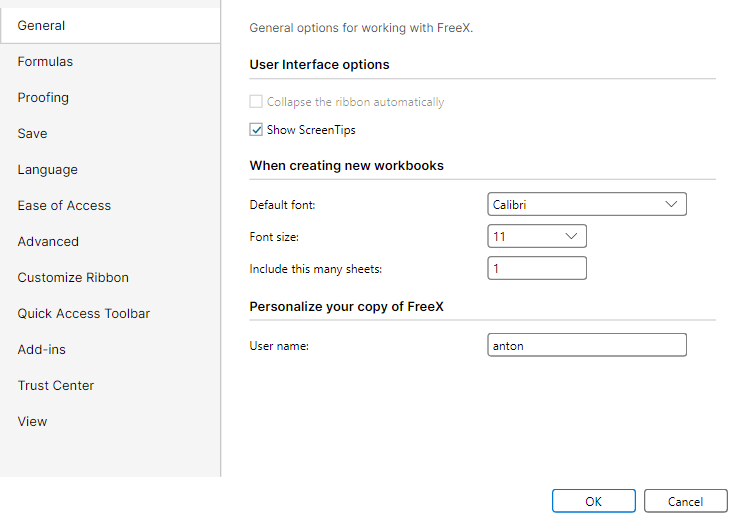
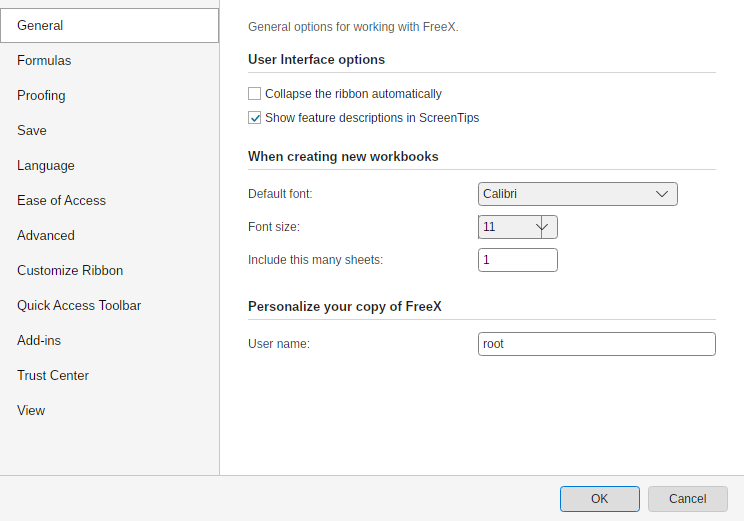
Align FreeX Avalonia Options General parity

diff --git a/src/FreeX.App.Avalonia/MainWindow.Options.cs b/src/FreeX.App.Avalonia/MainWindow.Options.cs
@@ -86,46 +86,61 @@ public sealed partial class MainWindow
         AvaloniaCompactDialogChrome.ApplyWindow(dialog, OptionsDialogChromeStyle);
 
         // ── General ─────────────────────────────────────────────────────────────
-        var fontBox = new ComboBox { MinWidth = 200, ItemsSource = OptionsDialogPlanner.FontNames };
+        var fontBox = new ComboBox { MinWidth = OptionsDialogPlanner.GeneralFontFieldWidth, ItemsSource = OptionsDialogPlanner.FontNames };
         fontBox.SelectedIndex = OptionsDialogPlanner.DefaultFontToIndex(current.DefaultFontName);
         ApplyOptionsComboBoxChrome(fontBox);
         AutomationProperties.SetAutomationId(fontBox, "OptionsDefaultFontComboBox");
 
-        var fontSizeBox = new ComboBox { MinWidth = 100, ItemsSource = OptionsDialogPlanner.FontSizes };
+        var fontSizeBox = new ComboBox { MinWidth = OptionsDialogPlanner.GeneralSmallFieldWidth, IsEditable = true, ItemsSource = OptionsDialogPlanner.FontSizes };
         fontSizeBox.SelectedItem = current.DefaultFontSize.ToString();
         ApplyOptionsComboBoxChrome(fontSizeBox);
+        // The editable Avalonia template reserves the arrow gutter in addition to the shared
+        // combo padding. Keep the WPF 80 px field while leaving the two-digit value fully visible.
+        fontSizeBox.Text = current.DefaultFontSize.ToString();
+        fontSizeBox.Padding = new Thickness(2, 0, 0, 0);
+        fontSizeBox.HorizontalContentAlignment = AvaloniaHorizontalAlignment.Left;
         AutomationProperties.SetAutomationId(fontSizeBox, "OptionsDefaultFontSizeComboBox");
 
-        var sheetCountBox = new TextBox { MinWidth = 100, Text = current.DefaultSheetCount.ToString() };
+        var sheetCountBox = new TextBox { MinWidth = OptionsDialogPlanner.GeneralSmallFieldWidth, Text = current.DefaultSheetCount.ToString() };
         ApplyOptionsTextBoxChrome(sheetCountBox);
         AutomationProperties.SetAutomationId(sheetCountBox, "OptionsDefaultSheetCountBox");
 
-        var userNameBox = new TextBox { MinWidth = 200, Text = current.UserName };
+        var userNameBox = new TextBox { Text = current.UserName };
         ApplyOptionsTextBoxChrome(userNameBox);
         AutomationProperties.SetAutomationId(userNameBox, "OptionsUserNameBox");
 
-        var screenTipsBox = new CheckBox { Content = UiText.Get("Options_ShowScreenTips"), IsChecked = current.ShowScreenTips };
+        var screenTipsBox = new CheckBox { Content = OptionsText("Options_ShowFeatureDescriptionsInScreenTips"), IsChecked = current.ShowScreenTips };
         ApplyOptionsCheckBoxChrome(screenTipsBox);
+        screenTipsBox.Height = OptionsDialogPlanner.GeneralCheckBoxHeight;
+        screenTipsBox.MinHeight = OptionsDialogPlanner.GeneralCheckBoxHeight;
+        screenTipsBox.MaxHeight = OptionsDialogPlanner.GeneralCheckBoxHeight;
+        screenTipsBox.Margin = new Thickness(0, 0, 0, 4);
         AutomationProperties.SetAutomationId(screenTipsBox, "OptionsShowScreenTipsCheckBox");
         var collapseRibbonBox = new CheckBox
         {
             Content = OptionsText("Options_CollapseTheRibbonAutomatically"),
-            IsEnabled = false,
+            IsChecked = current.CollapseRibbonAutomatically,
         };
         ApplyOptionsCheckBoxChrome(collapseRibbonBox);
+        collapseRibbonBox.Height = OptionsDialogPlanner.GeneralCheckBoxHeight;
+        collapseRibbonBox.MinHeight = OptionsDialogPlanner.GeneralCheckBoxHeight;
+        collapseRibbonBox.MaxHeight = OptionsDialogPlanner.GeneralCheckBoxHeight;
+        collapseRibbonBox.Margin = new Thickness(0, 0, 0, 6);
         AutomationProperties.SetAutomationId(collapseRibbonBox, "OptionsCollapseRibbonAutomaticallyCheckBox");
 
         var generalPanel = OptionsCategoryPanel(
-            OptionsDescription(OptionsText("Options_GeneralOptionsForWorkingWithFreeX")),
-            OptionsSectionHeader(OptionsText("Options_UserInterfaceOptions")),
+            OptionsDescription(OptionsText("Options_GeneralOptionsForWorkingWithFreeX"), bottomMargin: OptionsDialogPlanner.GeneralDescriptionBottomMargin),
+            OptionsSectionHeader(OptionsText("Options_UserInterfaceOptions"), topMargin: 0, bottomMargin: OptionsDialogPlanner.GeneralSectionBottomMargin),
             collapseRibbonBox,
             screenTipsBox,
-            OptionsSectionHeader(OptionsText("Options_WhenCreatingNewWorkbooks")),
-            OptionsLabeled(OptionsText("Options_DefaultFont"), fontBox),
-            OptionsLabeled(OptionsText("Options_FontSize"), fontSizeBox, fieldWidth: 80),
-            OptionsLabeled(OptionsText("Options_IncludeThisManySheets"), sheetCountBox, fieldWidth: 80),
-            OptionsSectionHeader(OptionsText("Options_PersonalizeYourCopyOfFreeX")),
-            OptionsLabeled(OptionsText("Options_UserName"), userNameBox, stretchField: true));
+            OptionsSectionHeader(OptionsText("Options_WhenCreatingNewWorkbooks"), topMargin: OptionsDialogPlanner.GeneralSectionTopMargin, bottomMargin: OptionsDialogPlanner.GeneralSectionBottomMargin),
+            OptionsLabeled(OptionsText("Options_DefaultFont"), fontBox, labelWidth: OptionsDialogPlanner.GeneralLabelWidth, fieldWidth: OptionsDialogPlanner.GeneralFontFieldWidth, spacing: OptionsDialogPlanner.GeneralFieldSpacing, margin: new Thickness(0, 0, 0, OptionsDialogPlanner.GeneralFieldBottomMargin)),
+            OptionsLabeled(OptionsText("Options_FontSize"), fontSizeBox, labelWidth: OptionsDialogPlanner.GeneralLabelWidth, fieldWidth: OptionsDialogPlanner.GeneralSmallFieldWidth, spacing: OptionsDialogPlanner.GeneralFieldSpacing, margin: new Thickness(0, 0, 0, OptionsDialogPlanner.GeneralFieldBottomMargin)),
+            OptionsLabeled(OptionsText("Options_IncludeThisManySheets"), sheetCountBox, labelWidth: OptionsDialogPlanner.GeneralLabelWidth, fieldWidth: OptionsDialogPlanner.GeneralSmallFieldWidth, spacing: OptionsDialogPlanner.GeneralFieldSpacing, margin: new Thickness(0, 0, 0, OptionsDialogPlanner.GeneralFieldBottomMargin)),
+            OptionsSectionHeader(OptionsText("Options_PersonalizeYourCopyOfFreeX"), topMargin: OptionsDialogPlanner.GeneralSectionTopMargin, bottomMargin: OptionsDialogPlanner.GeneralSectionBottomMargin),
+            OptionsLabeled(OptionsText("Options_UserName"), userNameBox, labelWidth: OptionsDialogPlanner.GeneralLabelWidth, stretchField: true, spacing: OptionsDialogPlanner.GeneralFieldSpacing, margin: new Thickness(0, 0, 0, OptionsDialogPlanner.GeneralUserNameBottomMargin)));
+        generalPanel.MinWidth = OptionsDialogPlanner.GeneralContentWidth;
+        generalPanel.Spacing = 0;
 
         // ── Formulas ────────────────────────────────────────────────────────────
         // Calc mode and iterative-calculation settings are workbook-level state (Workbook.
@@ -888,9 +903,9 @@ public sealed partial class MainWindow
         var selectedCategoryIndex = 0;
         var categoryList = new StackPanel
         {
-            Width = OptionsDialogPlanner.CategoryColumnWidth,
             Background = Brush(245, 245, 245),
             Margin = new Thickness(0, OptionsDialogPlanner.CategoryTopMargin, 0, 0),
+            HorizontalAlignment = AvaloniaHorizontalAlignment.Stretch,
         };
         AutomationProperties.SetAutomationId(categoryList, "OptionsCategoryList");
         AutomationProperties.SetName(categoryList, UiText.Get("Options_OptionsCategories"));
@@ -1055,7 +1070,8 @@ public sealed partial class MainWindow
                          1 => AppOptionsObjectDisplay.Placeholders,
                          2 => AppOptionsObjectDisplay.Nothing,
                          _ => AppOptionsObjectDisplay.All,
-                     }))
+                     },
+                    collapseRibbonAutomatically: collapseRibbonBox.IsChecked == true))
             {
                 warningText.Text = inputError == OptionsDialogPlanner.OptionsInputError.InvalidFontSize
                     ? UiText.Get("Options_InvalidFontSizeMessage")
@@ -1135,7 +1151,7 @@ public sealed partial class MainWindow
 
         var body = new Grid
         {
-            ColumnDefinitions = new ColumnDefinitions("Auto,*"),
+            ColumnDefinitions = new ColumnDefinitions($"{OptionsDialogPlanner.CategoryColumnWidth},*"),
         };
         var categoryFrame = new Border
         {
@@ -1417,7 +1433,7 @@ public sealed partial class MainWindow
             TextWrapping = TextWrapping.Wrap,
         };
 
-    private static StackPanel OptionsLabeled(
+    private static Control OptionsLabeled(
         string label,
         Control field,
         double labelWidth = 230,
@@ -1430,6 +1446,27 @@ public sealed partial class MainWindow
             field.Width = fieldWidth.Value;
         if (stretchField)
             field.HorizontalAlignment = AvaloniaHorizontalAlignment.Stretch;
+
+        if (stretchField)
+        {
+            var grid = new Grid
+            {
+                ColumnDefinitions = new ColumnDefinitions($"{labelWidth},*"),
+                Margin = margin ?? new Thickness(0),
+            };
+            var labelControl = new TextBlock
+            {
+                Text = label,
+                VerticalAlignment = AvaloniaVerticalAlignment.Center,
+                FontSize = 12,
+                FontFamily = FormulaBarFontFamily,
+            };
+            Grid.SetColumn(labelControl, 0);
+            Grid.SetColumn(field, 1);
+            grid.Children.Add(labelControl);
+            grid.Children.Add(field);
+            return grid;
+        }
 
         return new StackPanel
         {

diff --git a/src/FreeX.App.Services/OptionsDialogPlanner.cs b/src/FreeX.App.Services/OptionsDialogPlanner.cs
@@ -49,6 +49,17 @@ public static class OptionsDialogPlanner
     public const double FooterButtonWidth = 80;
     public const double ButtonHeight = 26;
     public const double ControlHeight = 24;
+    public const double GeneralContentWidth = CaptureWidth - CategoryColumnWidth - (ContentPaddingHorizontal * 2);
+    public const double GeneralLabelWidth = 230;
+    public const double GeneralFontFieldWidth = 200;
+    public const double GeneralSmallFieldWidth = 80;
+    public const double GeneralFieldSpacing = 0;
+    public const double GeneralDescriptionBottomMargin = 18;
+    public const double GeneralSectionBottomMargin = 12;
+    public const double GeneralSectionTopMargin = 18;
+    public const double GeneralCheckBoxHeight = 18;
+    public const double GeneralFieldBottomMargin = 9;
+    public const double GeneralUserNameBottomMargin = 6;
     public const double ProofingContentWidth = CaptureWidth - CategoryColumnWidth - (ContentPaddingHorizontal * 2);
     public const double ProofingWordsListHeight = 108;
     public const double ProofingAddWordLabelWidth = 94;
@@ -96,7 +107,8 @@ public static class OptionsDialogPlanner
         bool ShowScreenTips,
         bool MoveSelectionAfterEnter,
         AppOptionsEnterDirection AfterEnterDirection,
-        AppOptionsObjectDisplay? ObjectsDisplay = null);
+        AppOptionsObjectDisplay? ObjectsDisplay = null,
+        bool? CollapseRibbonAutomatically = null);
 
     /// <summary>Font names offered in the Options dialog's default-font picker (parity with the WPF host).</summary>
     public static IReadOnlyList<string> FontNames { get; } =
@@ -157,7 +169,8 @@ public static class OptionsDialogPlanner
         AppOptionsEnterDirection afterEnterDirection,
         out OptionsDialogInput input,
         out OptionsInputError error,
-        AppOptionsObjectDisplay? objectsDisplay = null)
+        AppOptionsObjectDisplay? objectsDisplay = null,
+        bool? collapseRibbonAutomatically = null)
     {
         input = null!;
 
@@ -191,7 +204,8 @@ public static class OptionsDialogPlanner
             showScreenTips,
             moveSelectionAfterEnter,
             afterEnterDirection,
-            objectsDisplay);
+            objectsDisplay,
+            collapseRibbonAutomatically);
         return true;
     }
 
@@ -229,7 +243,7 @@ public static class OptionsDialogPlanner
             ObjectsDisplay = input.ObjectsDisplay ?? existing.ObjectsDisplay,
 
             // Carried over verbatim — not surfaced by this dialog.
-            CollapseRibbonAutomatically = existing.CollapseRibbonAutomatically,
+            CollapseRibbonAutomatically = input.CollapseRibbonAutomatically ?? existing.CollapseRibbonAutomatically,
             AppLanguage = existing.AppLanguage,
             SpellCheckCustomDictionaryWords = existing.SpellCheckCustomDictionaryWords,
             FormulaBarExpanded = existing.FormulaBarExpanded,

diff --git a/tests/FreeX.App.Services.Tests/OptionsDialogPlannerTests.cs b/tests/FreeX.App.Services.Tests/OptionsDialogPlannerTests.cs
@@ -12,6 +12,12 @@ public sealed class OptionsDialogPlannerTests
         OptionsDialogPlanner.ContentPaddingVertical.Should().Be(20);
         OptionsDialogPlanner.FooterHeight.Should().Be(46);
         OptionsDialogPlanner.FooterButtonWidth.Should().Be(80);
+        OptionsDialogPlanner.GeneralContentWidth.Should().Be(468);
+        OptionsDialogPlanner.GeneralLabelWidth.Should().Be(230);
+        OptionsDialogPlanner.GeneralFontFieldWidth.Should().Be(200);
+        OptionsDialogPlanner.GeneralSmallFieldWidth.Should().Be(80);
+        OptionsDialogPlanner.GeneralFieldSpacing.Should().Be(0);
+        OptionsDialogPlanner.GeneralCheckBoxHeight.Should().Be(18);
         OptionsDialogPlanner.ProofingContentWidth.Should().Be(468);
         OptionsDialogPlanner.ProofingWordsListHeight.Should().Be(108);
         OptionsDialogPlanner.ProofingAddWordLabelWidth.Should().Be(94);
@@ -153,6 +159,34 @@ public sealed class OptionsDialogPlannerTests
 
         var projected = OptionsDialogPlanner.Project(new AppOptions(), input);
         projected.ObjectsDisplay.Should().Be(AppOptionsObjectDisplay.Nothing);
+    }
+
+    [Fact]
+    public void Project_ProjectsOptionalCollapseRibbonEditAndCarriesItForLegacyCallers()
+    {
+        OptionsDialogPlanner.TryBuildInput(
+            "Calibri", "12", "2", "Tester",
+            autoCalculate: true, useR1C1ReferenceStyle: false, errorCheckingEnabled: true,
+            proofingIgnoreUppercase: true, proofingIgnoreNumbers: false,
+            showFormulaBar: true, showGridlines: true, showHeadings: true,
+            defaultFormat: ".xlsx", showScreenTips: true,
+            moveSelectionAfterEnter: true, afterEnterDirection: AppOptionsEnterDirection.Down,
+            out var input, out _, collapseRibbonAutomatically: true);
+
+        OptionsDialogPlanner.Project(new AppOptions { CollapseRibbonAutomatically = false }, input)
+            .CollapseRibbonAutomatically.Should().BeTrue();
+
+        OptionsDialogPlanner.TryBuildInput(
+            "Calibri", "12", "2", "Tester",
+            autoCalculate: true, useR1C1ReferenceStyle: false, errorCheckingEnabled: true,
+            proofingIgnoreUppercase: true, proofingIgnoreNumbers: false,
+            showFormulaBar: true, showGridlines: true, showHeadings: true,
+            defaultFormat: ".xlsx", showScreenTips: true,
+            moveSelectionAfterEnter: true, afterEnterDirection: AppOptionsEnterDirection.Down,
+            out var legacyInput, out _);
+
+        OptionsDialogPlanner.Project(new AppOptions { CollapseRibbonAutomatically = true }, legacyInput)
+            .CollapseRibbonAutomatically.Should().BeTrue();
     }
 
     [Fact]

diff --git a/tests/FreeX.App.Avalonia.Tests/OptionsDialogGeneralParitySourceTests.cs b/tests/FreeX.App.Avalonia.Tests/OptionsDialogGeneralParitySourceTests.cs
@@ -1,0 +1,41 @@
+using System.IO;
+
+namespace FreeX.App.Avalonia.Tests;
+
+public sealed class OptionsDialogGeneralParitySourceTests
+{
+    [Fact]
+    public void GeneralOptions_UsesWpfMetricsAndExactContentStates()
+    {
+        var source = File.ReadAllText(RepoFile("src", "FreeX.App.Avalonia", "MainWindow.Options.cs"));
+        var wpf = File.ReadAllText(RepoFile("src", "FreeX.App.Host", "OptionsDialog.xaml"));
+
+        source.Should().Contain("generalPanel.Spacing = 0;");
+        source.Should().Contain("OptionsDialogPlanner.GeneralContentWidth");
+        source.Should().Contain("OptionsDialogPlanner.GeneralLabelWidth");
+        source.Should().Contain("OptionsDialogPlanner.GeneralSmallFieldWidth");
+        source.Should().Contain("OptionsDialogPlanner.GeneralFieldSpacing");
+        source.Should().Contain("IsEditable = true");
+        source.Should().Contain("OptionsText(\"Options_ShowFeatureDescriptionsInScreenTips\")");
+        source.Should().Contain("IsChecked = current.CollapseRibbonAutomatically");
+        source.Should().Contain("collapseRibbonAutomatically: collapseRibbonBox.IsChecked == true");
+        source.Should().Contain("ColumnDefinitions = new ColumnDefinitions($\"{OptionsDialogPlanner.CategoryColumnWidth},*\")");
+        source.Should().Contain("ColumnDefinitions = new ColumnDefinitions($\"{labelWidth},*\")");
+
+        wpf.Should().Contain("Options_ShowFeatureDescriptionsInScreenTips");
+        wpf.Should().Contain("ColumnDefinition Width=\"230\"");
+        wpf.Should().Contain("Height=\"24\"");
+    }
+
+    private static string RepoFile(params string[] parts)
+    {
+        var directory = new DirectoryInfo(AppContext.BaseDirectory);
+        while (directory is not null && !File.Exists(Path.Combine(directory.FullName, "FreeX.slnx")))
+            directory = directory.Parent;
+
+        if (directory is null)
+            throw new DirectoryNotFoundException("Could not find repository root containing FreeX.slnx.");
+
+        return Path.Combine(new[] { directory.FullName }.Concat(parts).ToArray());
+    }
+}

diff --git a/docs/parity/avalonia-wpf-cross-app-dashboard.md b/docs/parity/avalonia-wpf-cross-app-dashboard.md
@@ -8,7 +8,7 @@ Generated by `tools/Generate-CrossAppParityDashboard.ps1` from existing generate
 
 | App | Primary evidence | Current generated state | Next slice |
 |---|---|---|---|
-| FreeX | Functional matrix, classifier, dialog inventory, dialog visual evidence, command surface | 531 functional commands; 473 command inventory parity; 0 Avalonia-missing; 0 real classified binding gaps; 48 catalog-backed pseudo-gallery rows (34 conditional-format, 10 font/border, 4 accounting-symbol); 57/57 dialog routes captured on WPF and Avalonia; 94 paired screenshot surface ids, 0 Avalonia-only ids, 0 WPF-only ids; 0 scale-aware dimension mismatches; 0 unresolved high-delta visual review candidates at triage score >= 0.4 (highest 0.111494); 29 raw PNG pixel dimension mismatches, of which 29 normalize by capture DPI. These are coverage/triage metrics, not a visual-parity claim. | Command/dialog route coverage is complete for the generated inputs: all 48 pseudo-gallery rows are catalog-backed in classifier evidence (34 conditional-format rows over 38 runtime catalog items, 10 font/border rows, and 4 accounting-symbol rows), and dialog screenshot evidence has 94 paired WPF/Avalonia manifest surface ids with 0 Avalonia-only ids. This is coverage and size-comparability evidence, not visual parity. The paired screenshots retain 0 unresolved high-delta visual review candidates at triage score >= 0.4 (highest 0.111494); keep those candidates separate from 0 scale-aware dimension mismatch rows and 29 raw PNG pixel dimension mismatches. |
+| FreeX | Functional matrix, classifier, dialog inventory, dialog visual evidence, command surface | 531 functional commands; 473 command inventory parity; 0 Avalonia-missing; 0 real classified binding gaps; 48 catalog-backed pseudo-gallery rows (34 conditional-format, 10 font/border, 4 accounting-symbol); 57/57 dialog routes captured on WPF and Avalonia; 94 paired screenshot surface ids, 0 Avalonia-only ids, 0 WPF-only ids; 0 scale-aware dimension mismatches; 0 unresolved high-delta visual review candidates at triage score >= 0.4 (highest 0.110625); 29 raw PNG pixel dimension mismatches, of which 29 normalize by capture DPI. These are coverage/triage metrics, not a visual-parity claim. | Command/dialog route coverage is complete for the generated inputs: all 48 pseudo-gallery rows are catalog-backed in classifier evidence (34 conditional-format rows over 38 runtime catalog items, 10 font/border rows, and 4 accounting-symbol rows), and dialog screenshot evidence has 94 paired WPF/Avalonia manifest surface ids with 0 Avalonia-only ids. This is coverage and size-comparability evidence, not visual parity. The paired screenshots retain 0 unresolved high-delta visual review candidates at triage score >= 0.4 (highest 0.110625); keep those candidates separate from 0 scale-aware dimension mismatch rows and 29 raw PNG pixel dimension mismatches. |
 | FreeW | Generated command inventory | 870 commands; 451 shared-profile; 0 actionable WPF-missing; 0 actionable Avalonia-missing; 371 profile-shape-only; 43 command-id aliases; 5 platform-only; 0 deferred | Backstage print/export, WordArt/watermark, table/page-composition, shape/object, SmartArt polygon, and chart visual proof now have paired WPF/Avalonia renderer contracts plus no-Word real-capture smoke runs; chart proof also validates shared chart data signatures across hosts. All-up no-Word runner fallback drift is classified as runner evidence hygiene, and the standalone no-Word runner now writes a post-summary readiness manifest with comparable scenario IDs, candidate Word PNG baseline paths, remaining blocker IDs, and an explicit no-authoritative-Word-PNG-parity claim. Next FreeW evidence slices are the same runs with real Word PNG baselines on a Word-capable host and broader Word-authoritative drawing/object/chart/table comparisons. |
 | FreeP | Generated command/evidence inventory | 346 commands; 344 shared-profile; 0 actionable WPF-missing; 0 actionable Avalonia-missing; 2 platform-only; 99 workflow evidence rows | Layout picker, table picker, rich inline table/text editing, shared visible list galleries, picture-bullet import/rendering plus picker/media authoring, slide-pane reorder, bottom New Slide, notes-page preview/PDF rendering, fixed-layout PDF connector, image, triangle-arrowhead, rotation, ellipse, picture-frame/crop/alpha/color-effect, shape-opacity export, and PDF visual-baseline readiness with WPF/Avalonia page-raster artifact patterns plus paired diff-report targets, export/backstage package-handoff, presenter recording backend contracts plus capture-adapter readiness and paired backend injection, captured PPTX media and generated WebVTT caption artifact authoring, focused PowerPoint-native caption package retention including external caption relationship metadata, native media/caption sidecar package depth, and caption relationship-id collision remapping, shared chart number/date label rendering plus edge/mixed manual-layout bounds, surface grid plus projected contour/wireframe/3-D surface geometry plus 3-D pie lower-depth rendering, stock OHLC capture-readiness metadata, and PowerPoint/WPF/Avalonia chart baseline capture readiness, SmartArt basic hierarchy plus vertical bullet list plus basic cycle plus radial cycle plus gear cycle plus text cycle plus basic, continuous block, segmented, chevron, alternating, funnel, circle, and arrow-ribbon process plus basic block list plus vertical box list plus stacked list plus basic pyramid plus bounded pictureCaptionList live layout plus basic/radial/stacked Venn and target-list relationship layouts plus shared outline reorder/promote/demote editing, data-part authoring, text-pane/cache-regeneration authoring, and matching thin WPF/Avalonia text-pane host controls with bounded keyboard routes, header/footer placeholder creation plus inherited layout/master geometry, title-slide suppression, fixed/auto date options, shared OMML fraction-type variants, matrix spacing/base alignment, delimiter grow semantics, accent/bar render-plan coverage, manual line breaks, boxed equation-array alignment points, transparent phantom spacing classes, pre-sub/superscript layout, matrix empty-cell placeholder handling, and group-character vertical justification, ink execution with repeated custom-show route retention, modern comments/review with shared mention candidate and insertion planning, accessibility/proofing workflow depth, animation-pane row/playback workflow evidence, paired real Windows microphone narration handoff, paired Windows camera handoff readiness, paired default no-COM camera handoff/package-target readiness without encoded-payload or PowerPoint-baseline claims, deterministic encoded camera media payload artifacts through host-specific PPTX package paths, and paired OS-backed unavailable-hardware/no-device recording evidence now have WPF/Avalonia no-COM evidence paths. Continue workflow-depth slices in live capture on real microphone/camera hardware, actual local default no-COM camera video encoding that produces non-empty mp4 payloads, calibrated chart-family acceptance thresholds and remaining type-specific decisions beyond the current PowerPoint baseline-depth/type/label captures, broader SmartArt layout families, remaining OMML constructs/alignment semantics and PowerPoint-authoritative math visual-baseline coverage, broader real-deck PowerPoint-native media/caption baselines, actual PowerPoint PDF/PNG capture and calibrated PDF visual diffs on a COM-capable host, and PowerPoint-authoritative animation-pane visual/playback baselines. |
 

diff --git a/docs/parity/dialog-visual-evidence-summary.md b/docs/parity/dialog-visual-evidence-summary.md
@@ -62,8 +62,6 @@ Outliers are ranked by a deterministic triage score: normalized 32x32 ARGB sampl
 
 | Surface id | WPF logical size | Avalonia logical size | Raw PNG sizes | Bucket | Evidence flag | Score | Sample delta | Luma delta | Non-bg delta |
 | --- | ---: | ---: | --- | --- | --- | ---: | ---: | ---: | ---: |
-| dialog.Options | 744x521 | 744x521 | 744x521 px @ 96 DPI vs 744x521 px @ 96 DPI |  |  | 0.111 | 0.026 | 0.007 | 0.078 |
-| dialog.Options.General | 744x521 | 744x521 | 744x521 px @ 96 DPI vs 744x521 px @ 96 DPI |  |  | 0.111 | 0.026 | 0.007 | 0.078 |
 | dialog.SortOptions | 330x260 | 330x260 | 495x390 px @ 144 DPI vs 330x260 px @ 96 DPI |  |  | 0.111 | 0.053 | 0.010 | 0.047 |
 | dialog.GoTo | 420x320 | 420x320 | 630x480 px @ 144 DPI vs 420x320 px @ 96 DPI |  |  | 0.110 | 0.019 | 0.003 | 0.089 |
 | dialog.Options.Save | 744x521 | 744x521 | 744x521 px @ 96 DPI vs 744x521 px @ 96 DPI |  |  | 0.105 | 0.019 | 0.006 | 0.080 |
@@ -72,6 +70,8 @@ Outliers are ranked by a deterministic triage score: normalized 32x32 ARGB sampl
 | dialog.ErrorChecking | 720x420 | 720x420 | 1080x630 px @ 144 DPI vs 720x420 px @ 96 DPI |  |  | 0.103 | 0.030 | 0.006 | 0.066 |
 | dialog.Options.TrustCenter | 744x521 | 744x521 | 744x521 px @ 96 DPI vs 744x521 px @ 96 DPI |  |  | 0.101 | 0.025 | 0.005 | 0.071 |
 | dialog.Options.CustomizeRibbon | 744x521 | 744x521 | 744x521 px @ 96 DPI vs 744x521 px @ 96 DPI |  |  | 0.100 | 0.018 | 0.006 | 0.075 |
+| dialog.FormatCells.Border | 620x597 | 620x597 | 620x597 px @ 96 DPI vs 620x597 px @ 96 DPI |  |  | 0.099 | 0.036 | 0.003 | 0.060 |
+| dialog.AccessibilityChecker | 360x520 | 360x520 | 360x520 px @ 96 DPI vs 360x520 px @ 96 DPI |  |  | 0.099 | 0.040 | 0.023 | 0.036 |
 
 ## Scale-Aware Dimension Mismatch Details
 
@@ -128,13 +128,13 @@ These rows have a DPI-normalized checked-in PNG size that disagrees with the dia
 | dialog.InsertTimeline | dialog.InsertTimeline.png | 410x270 | 615x405 px @ 144 DPI | True | dialog.InsertTimeline.png | 410x270 | 410x270 px @ 96 DPI | True | True | 0.040 |
 | dialog.LegalNotices | dialog.LegalNotices.png | 840x620 | 1260x930 px @ 144 DPI | True | dialog.LegalNotices.png | 840x620 | 840x620 px @ 96 DPI | True | True | 0.030 |
 | dialog.OpenWorkbook | dialog.OpenWorkbook.png | 640x420 | 640x420 px @ 96 DPI | True | dialog.OpenWorkbook.png | 640x420 | 640x420 px @ 96 DPI | True | True | 0.034 |
-| dialog.Options | dialog.Options.png | 744x521 | 744x521 px @ 96 DPI | True | dialog.Options.png | 744x521 | 744x521 px @ 96 DPI | True | True | 0.111 |
+| dialog.Options | dialog.Options.png | 744x521 | 744x521 px @ 96 DPI | True | dialog.Options.png | 744x521 | 744x521 px @ 96 DPI | True | True | 0.032 |
 | dialog.Options.AddIns | dialog.Options.AddIns.png | 744x521 | 744x521 px @ 96 DPI | True | dialog.Options.AddIns.png | 744x521 | 744x521 px @ 96 DPI | True | True | 0.097 |
 | dialog.Options.Advanced | dialog.Options.Advanced.png | 744x521 | 744x521 px @ 96 DPI | True | dialog.Options.Advanced.png | 744x521 | 744x521 px @ 96 DPI | True | True | 0.041 |
 | dialog.Options.CustomizeRibbon | dialog.Options.CustomizeRibbon.png | 744x521 | 744x521 px @ 96 DPI | True | dialog.Options.CustomizeRibbon.png | 744x521 | 744x521 px @ 96 DPI | True | True | 0.100 |
 | dialog.Options.EaseOfAccess | dialog.Options.EaseOfAccess.png | 744x521 | 744x521 px @ 96 DPI | True | dialog.Options.EaseOfAccess.png | 744x521 | 744x521 px @ 96 DPI | True | True | 0.098 |
 | dialog.Options.Formulas | dialog.Options.Formulas.png | 744x777 | 744x777 px @ 96 DPI | True | dialog.Options.Formulas.png | 744x777 | 744x777 px @ 96 DPI | True | True | 0.093 |
-| dialog.Options.General | dialog.Options.General.png | 744x521 | 744x521 px @ 96 DPI | True | dialog.Options.General.png | 744x521 | 744x521 px @ 96 DPI | True | True | 0.111 |
+| dialog.Options.General | dialog.Options.General.png | 744x521 | 744x521 px @ 96 DPI | True | dialog.Options.General.png | 744x521 | 744x521 px @ 96 DPI | True | True | 0.032 |
 | dialog.Options.Language | dialog.Options.Language.png | 744x521 | 744x521 px @ 96 DPI | True | dialog.Options.Language.png | 744x521 | 744x521 px @ 96 DPI | True | True | 0.104 |
 | dialog.Options.Proofing | dialog.Options.Proofing.png | 744.301x521 | 744x521 px @ 96 DPI | True | dialog.Options.Proofing.png | 744x521 | 744x521 px @ 96 DPI | True | True | 0.042 |
 | dialog.Options.QuickAccessToolbar | dialog.Options.QuickAccessToolbar.png | 744.301x521 | 744x521 px @ 96 DPI | True | dialog.Options.QuickAccessToolbar.png | 744x521 | 744x521 px @ 96 DPI | True | True | 0.047 |

diff --git a/docs/parity/freex-options-general-wave23-20260727.md b/docs/parity/freex-options-general-wave23-20260727.md
@@ -1,0 +1,21 @@
+# FreeX Options General parity, Wave23
+
+Surface: `dialog.Options.General` (the default `dialog.Options` capture is the same General client frame).
+
+## Authority and implementation
+
+- WPF authority: `src/FreeX.App.Host/OptionsDialog.xaml` and `OptionsDialog.xaml.cs`.
+- Avalonia implementation: `src/FreeX.App.Avalonia/MainWindow.Options.cs`.
+- Shared layout and projection contract: `src/FreeX.App.Services/OptionsDialogPlanner.cs`.
+- Focused tests: `tests/FreeX.App.Services.Tests/OptionsDialogPlannerTests.cs` and `tests/FreeX.App.Avalonia.Tests/OptionsDialogGeneralParitySourceTests.cs`.
+
+The General page now uses the WPF 230 px label column, 200/80 px field widths, zero row gap, WPF section and field margins, 18 px checkbox rows, the exact ScreenTips label, an editable font-size picker, a full-width username field, and a fixed 220 px category column. The Collapse Ribbon checkbox now mirrors WPF state and persists through the shared planner while legacy planner callers continue to carry the existing value.
+
+## Evidence
+
+- WPF: `docs/parity/dialog-visual-assets/wpf-capture/dialog.Options.General.png`
+- Avalonia: `docs/parity/dialog-visual-assets/avalonia-capture/dialog.Options.General.png`
+- Fresh run: `artifacts/options-general-wave23-capture-corrected/freex/sessions/20260727T071328665Z/general-capture/manifest.json`
+- Generated report: `docs/parity/dialog-visual-evidence-summary.md` and `.json`
+
+The fresh Ubuntu 24.04 Docker/Xvfb capture is 744x521 at 96 DPI. The paired triage score improved from `0.111494` to the exact `0.032147`; the refreshed report has zero scale-aware dimension mismatches. The Linux fixture resolves the default persisted user name as `root`, while the WPF authority screenshot contains `anton`; this remaining text-content difference is fixture state, not General geometry.
